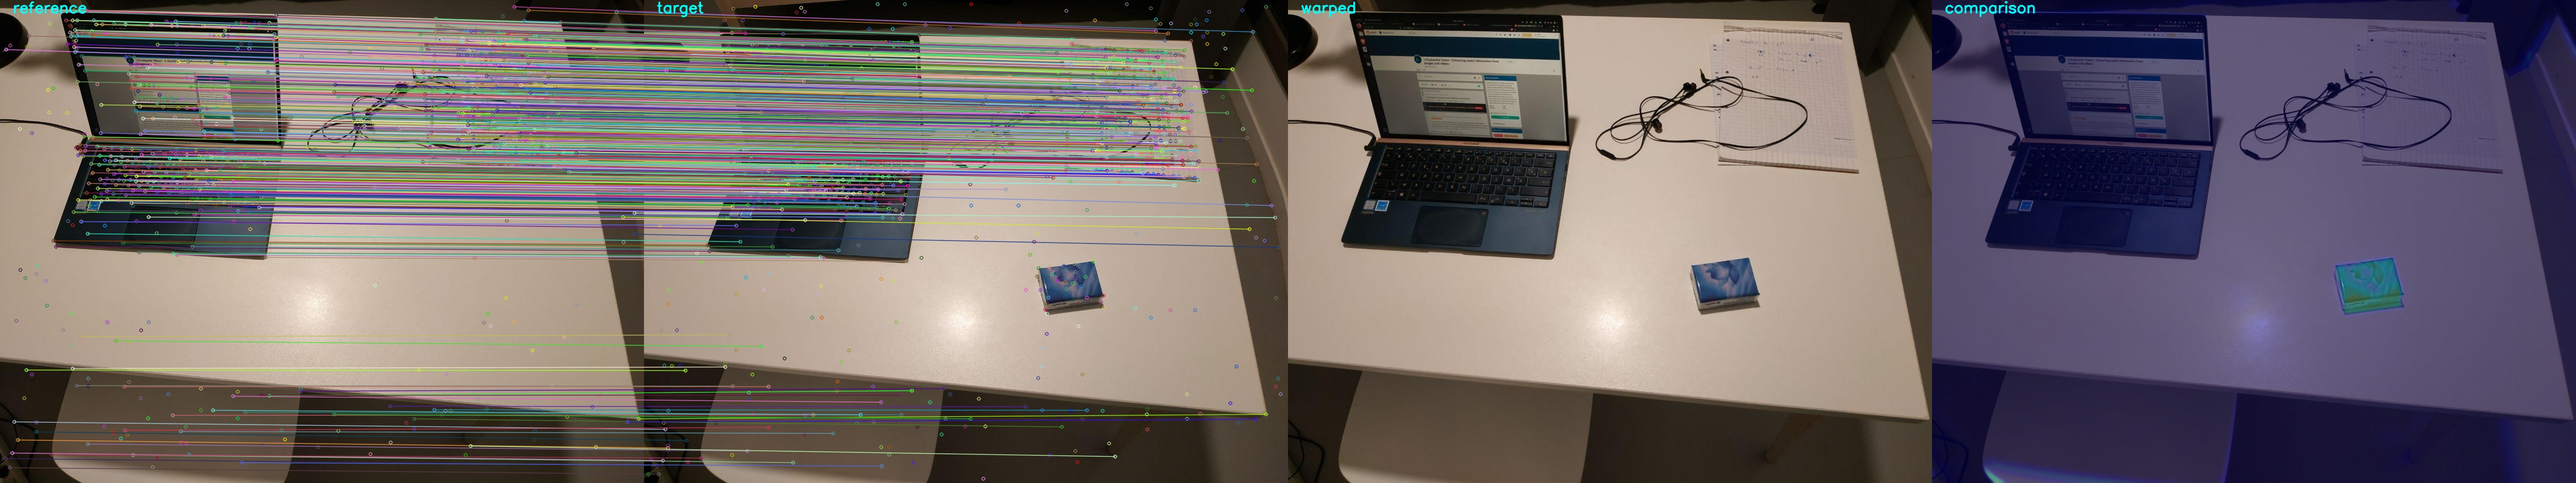
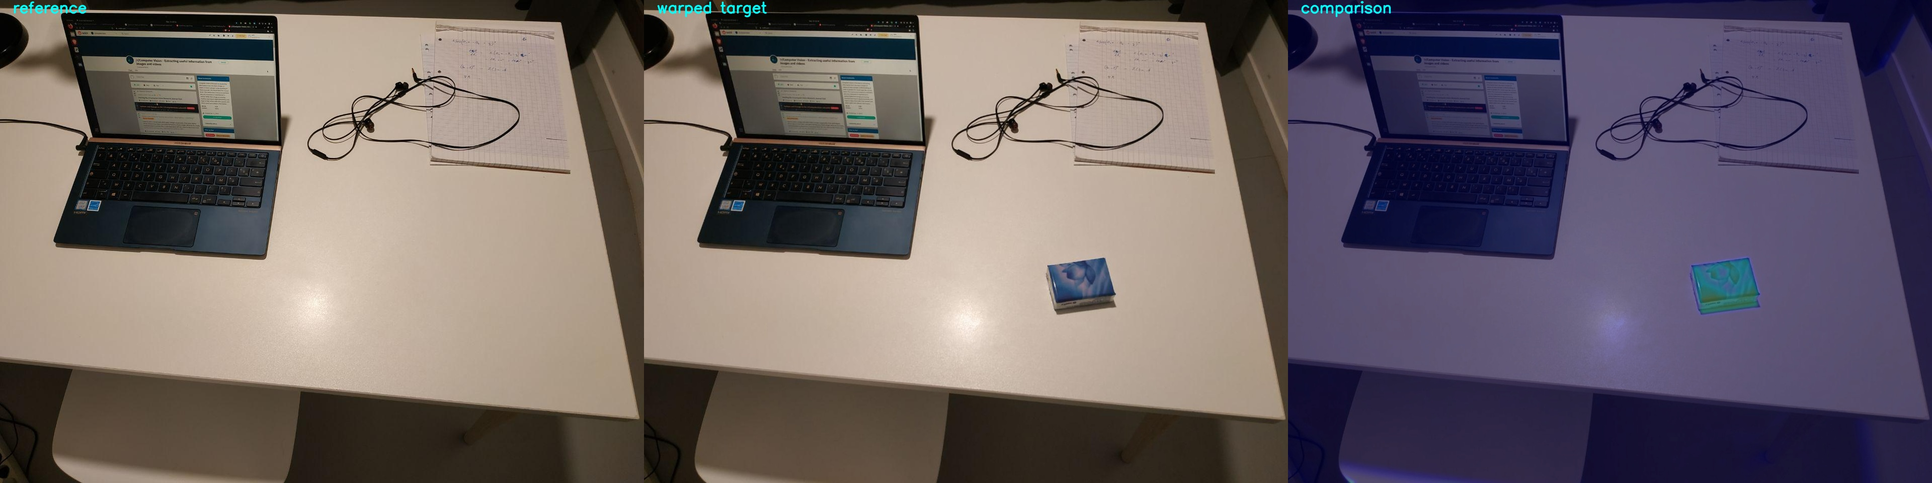
Modified display

diff --git a/comparator.py b/comparator.py
@@ -45,19 +45,16 @@ class Comparator():
 
         # Combine heatmap with warped image
         comparison = cv.addWeighted(res,0.5,heatmap,0.3,0)
-        # Draw Matches
-        matches	= cv.drawMatches(src, kp['kp_src'], tar, kp['kp_tar'], kp['matches'], None)
 
         # Create a comparison image
-        final = np.hstack((matches,res,comparison))
+        final = np.hstack((src,res,comparison))
 
         # Add text
         font = cv.FONT_HERSHEY_SIMPLEX
         color = (255,255,0)
         cv.putText(final,'reference',(25,25), font, 1,color,2,cv.LINE_AA)
-        cv.putText(final,'target',(w1+25,25), font, 1,color,2,cv.LINE_AA)
-        cv.putText(final,'warped',(2*w1+25,25), font, 1,color,2,cv.LINE_AA)
-        cv.putText(final,'comparison',(3*w1+25,25), font, 1,color,2,cv.LINE_AA)
+        cv.putText(final,'warped target',(w1+25,25), font, 1,color,2,cv.LINE_AA)
+        cv.putText(final,'comparison',(2*w1+25,25), font, 1,color,2,cv.LINE_AA)
 
         # Save the comparison
         cv.imwrite(dest,final)
